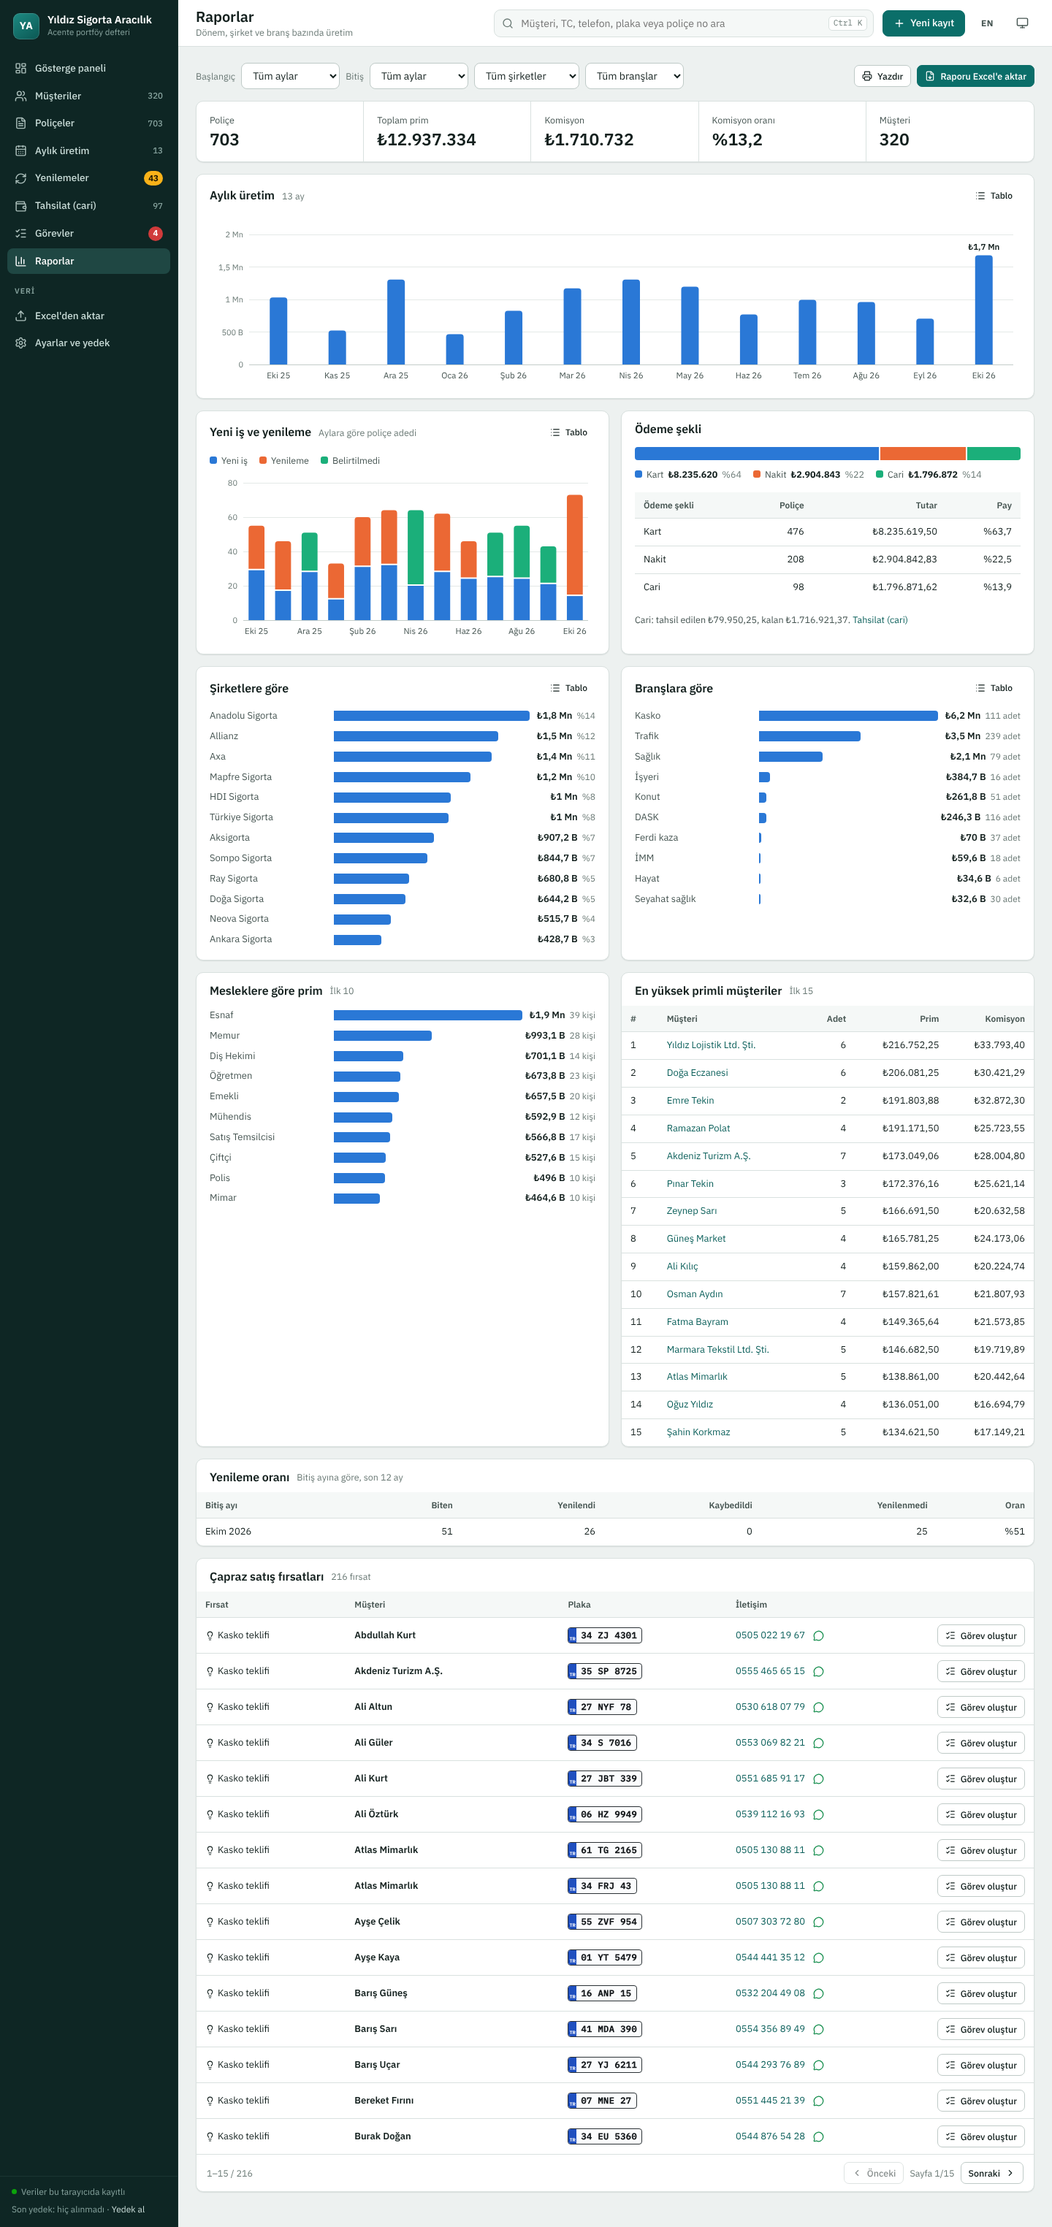
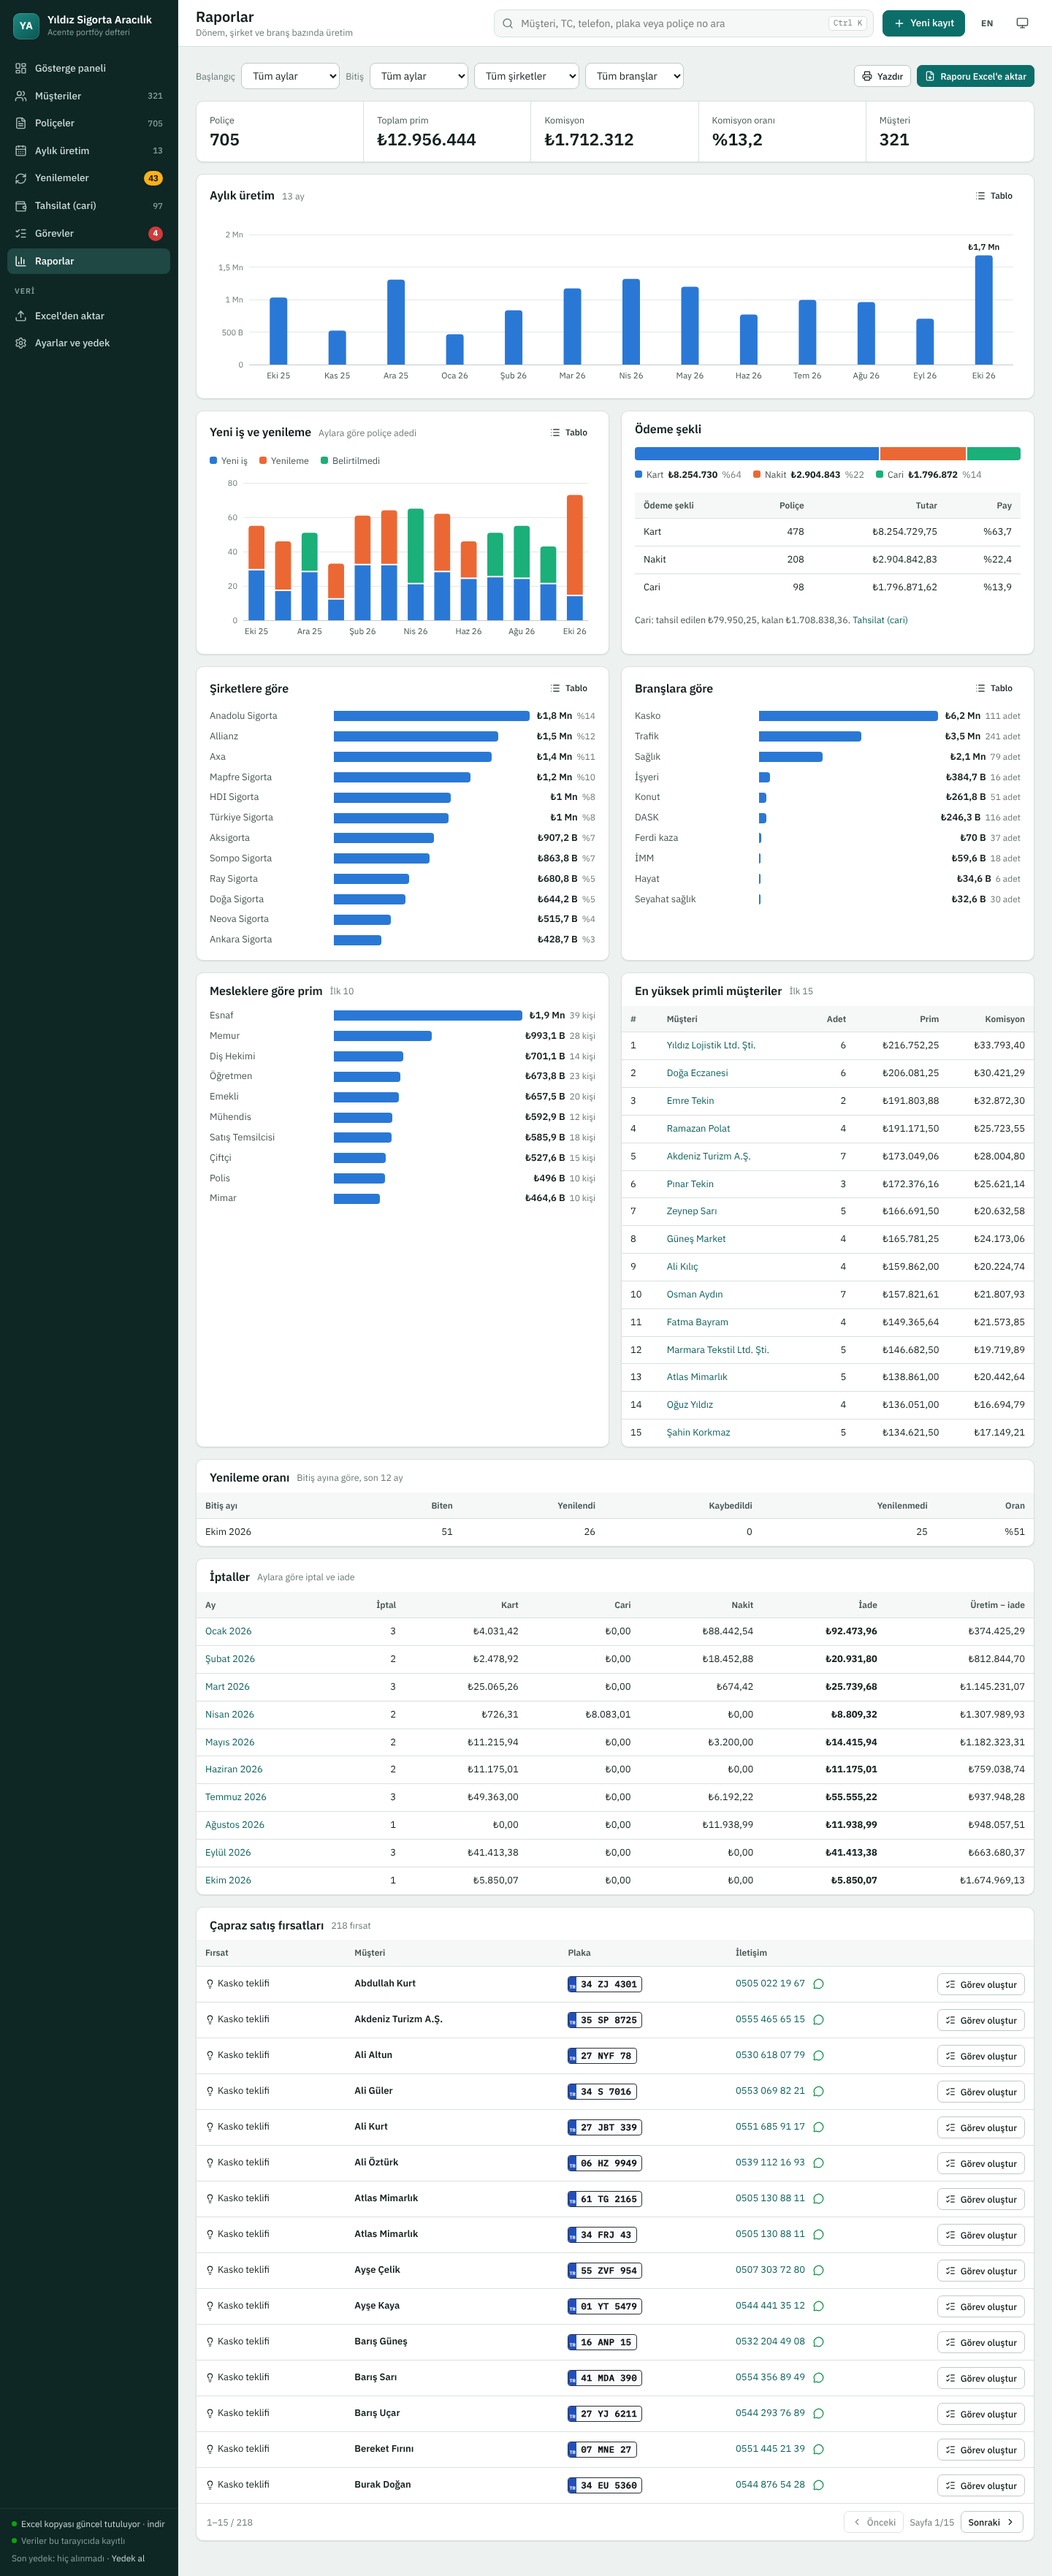
Document automatic saving and İptal; new screenshots
README: how every change goes into the linked workbook (what is kept, where new
rows, new months and cancellations go, the notices), the İptal block, and the
browser note (Chrome or Edge write to the file; others keep a copy to download).
Screenshots 31–40 show the import option, the saved state, the workbook itself
after a save, the file-open-in-Excel notice, the Excel card and the İptal screens;
the others are retaken with the Excel line in the menu.

Claude-Session: https://claude.ai/code/session_0144kBApRq18PCrk8ZVR21p3

diff --git a/README.md b/README.md
@@ -2,15 +2,22 @@
 
 An HTML application for insurance agencies. It reads the agency's monthly production Excel file
 (one sheet per month), keeps every row in the browser, matches the same customer across months,
-and gives one screen per customer with everything they have bought in every month. On top of that:
-an easy entry form, renewal tracking with WhatsApp reminders, on-account (cari) collections,
+and gives one screen per customer with everything they have bought in every month. **Every change
+made in the app is written back into that same Excel file, on the page of its month, a moment after
+it is saved — there is no save button.** The İptal block at the end of each page (ŞİRKET | POLİÇE |
+SİGORTALI AD SOYAD | KART | CARİ | NAKİT) is read as cancellations of earlier policies. On top of
+that: an easy entry form, renewal tracking with WhatsApp reminders, on-account (cari) collections,
 tasks, reports and Excel exports in the agency's own column layout.
 
 *Türkçe özet:* Acentenin her ayı ayrı sayfada tutulan üretim Excel'ini okur, tüm satırları
 tarayıcıda saklar, aynı müşteriyi aylar arasında TC / ad + telefon / plaka ile eşleştirir ve
-müşterinin bütün aylardaki poliçelerini tek kartta gösterir. Yeni kayıt formu, yenileme takibi,
-WhatsApp hatırlatma, cari tahsilat, görevler, raporlar ve aynı sütun düzeninde Excel çıktısı vardır.
-Veriler hiçbir sunucuya gönderilmez.
+müşterinin bütün aylardaki poliçelerini tek kartta gösterir. **Uygulamada yapılan her değişiklik
+(yeni kayıt, düzenleme, iptal) birkaç saniye içinde aynı Excel dosyasının ilgili ay sayfasına
+kendiliğinden yazılır; kaydet düğmesine basmak gerekmez.** Her sayfanın sonundaki ŞİRKET / POLİÇE /
+SİGORTALI AD SOYAD / KART / CARİ / NAKİT bölümüne yazılan satırlar iptal olarak okunur ve önceki
+aylardaki eşleşen poliçe iptal edilir. Yeni kayıt formu, yenileme takibi, WhatsApp hatırlatma, cari
+tahsilat, görevler, raporlar ve aynı sütun düzeninde Excel çıktısı vardır. Veriler hiçbir sunucuya
+gönderilmez.
 
 ![Dashboard](docs/screenshots/05-dashboard.png)
 
@@ -22,8 +29,12 @@ Veriler hiçbir sunucuya gönderilmez.
 | From the repository | Open `index.html` directly, or run `npm run serve` and go to http://127.0.0.1:8080 |
 
 On the first screen choose your Excel file, or press **Örnek veriyle dene** to load the sample
-workbook (`sample-data/ornek-portfoy.xlsx`: 13 monthly sheets, 703 policies, 320 fictional customers).
-The interface is Turkish; an English version is one click away (EN button in the top bar).
+workbook (`sample-data/ornek-portfoy.xlsx`: 13 monthly sheets, 705 policies, 321 fictional customers,
+22 İptal rows). The interface is Turkish; an English version is one click away (EN button in the top bar).
+
+Saving straight into your Excel file needs **Chrome or Edge** on a computer (they let a web page write
+to a file you picked). In Firefox and Safari the app keeps an up-to-date copy of your workbook instead,
+which you download with one click.
 
 ## What it does
 
@@ -44,6 +55,8 @@ What the importer copes with, because real agency files look like this:
   different sheets (*Branş*, *Vade Sonu*, *TCKN*, *Sigorta Şirketi* …);
 - total rows, empty rows and repeated header rows are skipped;
 - unknown columns (MARKA, MODEL YILI …) are kept as extra columns and written back on export;
+- the İptal block at the end of each page (ŞİRKET | POLİÇE | SİGORTALI AD SOYAD | KART | CARİ | NAKİT,
+  starting in any column, after one or more empty columns) is read on its own, never as policies;
 - the month from the sheet name in any form (`EKİM 2025`, `Ekim 2026`, `08.2026`, `Temmuz-2026`,
   `MART`), from the title, from the file name or from the dates;
 - dates as real Excel dates or text (`05.11.2026`, `5/11/2026`), amounts as `25.000,00` or `25000`;
@@ -73,7 +86,59 @@ Columns it recognises (any spelling or upper/lower case, with or without Turkish
 | Kart / Cari / Nakit | Kart, Kredi kartı, POS / Cari, Cari hesap, Veresiye / Nakit, Peşin, Elden |
 | Also | Başlangıç tarihi, Tanzim tarihi, E-posta, Doğum tarihi, Adres, Net prim, Temsilci |
 
-### 2. One card per customer, across all months
+### 2. Every change goes into your Excel file, automatically
+
+| | |
+| --- | --- |
+| ![Save to this file](docs/screenshots/31-import-autosave.png) | ![Linked](docs/screenshots/32-import-linked.png) |
+| When you import an `.xlsx`, **Bu Excel dosyasına otomatik kaydet** is ticked. The browser asks once whether the app may edit the file. | From then on the app writes into that file by itself. |
+| ![Saved](docs/screenshots/33-excel-saved.png) | ![In the file](docs/screenshots/35-excel-file-new-row.png) |
+| *Yeni kayıt* → *Kaydet*: a moment later the menu says **Excel'e kaydedildi**. | The same record in the workbook (open it again in Excel): on the Ekim 2026 page, right under the last row, with the page's own spelling (EVET, TC as a number, dates as dates). A cancellation made in the app went into the next empty row of that page's İptal block. |
+
+How it writes, so the file stays yours:
+
+- only the cells that changed are written; untouched rows, blank rows, colours, borders, column widths,
+  frozen panes, other sheets and formulas stay exactly as they were;
+- a new record goes under the last row of **its month's page** (into ready-formatted empty rows first);
+  a month the file does not have yet gets a new page copied from its neighbour ("KASIM 2026", same
+  headers, same İptal block), placed in month order;
+- an edit rewrites that row's changed cells; a customer's new phone number goes into all of their rows;
+- a deleted record's row is removed and the rows below move up; the **TOPLAM** row follows the table
+  and its totals are recalculated (SUM formulas are widened, typed totals are re-added);
+- a cancellation goes into the İptal block of the month it was cancelled in; a page without a block
+  gets one after its table;
+- before writing, the app keeps earlier versions of the file (Ayarlar → Excel dosyası → Önceki sürümler).
+
+| | |
+| --- | --- |
+| ![File open in Excel](docs/screenshots/36-excel-notice-open.png) | ![Excel card](docs/screenshots/37-settings-excel.png) |
+| If the file is open in Excel (Windows locks it), saving waits and tries again by itself; close Excel and it goes through. | Ayarlar → Excel dosyası: save now, download, earlier versions, link another file, create a new `.xlsx`, unlink. |
+
+When the browser needs you, a notice appears above the page:
+
+- **Kaydetmeye devam etmek için Excel dosyasını seçin / İzin ver**: after the app is reopened, the browser
+  asks once per session before the app may write to the file again (pick the file, or allow);
+- **Excel dosyası uygulama dışında değiştirilmiş**: the file was saved in Excel since the app last wrote
+  to it. *Dosyadaki değişiklikleri al* reads it again and lines its rows up with the last save, so
+  edited, added or deleted rows in Excel are understood; records you changed in the app meanwhile keep
+  your change and are written back. *Uygulamadakini dosyaya yaz* writes the app's data over it instead;
+- **N satır silinecek**: a change that would remove more than 10 rows at once (other than deleting a
+  month or a customer, which already asks) waits for a yes;
+- policies deleted in Excel are offered for deletion in the app too (or written back).
+
+An `.xls` or `.csv` cannot be written to; the app then offers to create a new `.xlsx` with all your
+months, one page each, with the agency's yellow headers and İptal block.
+
+### 3. İptal: cancellations at the end of each page
+
+| | |
+| --- | --- |
+| ![Month İptal block](docs/screenshots/38-month-cancels.png) | ![Cancelled policy](docs/screenshots/40-customer-cancelled.png) |
+| Each page's İptal block (wherever it starts: column T, U, Z …) is read row by row. Each row is matched to the policy it cancels in that month or an earlier one, by the insured person's name, the company, the line of business or a policy number in POLİÇE, and the refund amount. | The matched policy is marked **İptal · Eki 26** on the customer card and leaves renewals; a refund written to CARİ lowers the customer's balance. |
+| ![Two possible policies](docs/screenshots/39-cancel-picker.png) | ![Cancel from the app](docs/screenshots/34-cancel-dialog.png) |
+| When two policies fit equally well (two traffic policies of the same person), the row waits for you to pick; a row with no policy is marked as such. Your choice is kept on every later import. | Cancelling from the app (the ⊘ button on a policy) asks for the month and the refund (Kart / Cari / Nakit, or "whole premium") and writes the row into that month's İptal block. |
+
+### 4. One card per customer, across all months
 
 | | |
 | --- | --- |
@@ -95,14 +160,14 @@ history, payments. The card prints as a statement and exports to Excel.
 
 Search from anywhere (Ctrl + K): name, TC, phone, plate or policy number.
 
-### 3. Easy entry
+### 5. Easy entry
 
 | | |
 | --- | --- |
 | ![Entry form](docs/screenshots/12-new-policy-form.png) | ![Pick a customer](docs/screenshots/11-new-policy-pick-customer.png) |
 | All columns of the monthly sheet in one form: TC check digits, phone and plate formatted as you type, end date = start + 1 year, commission from the rate, payment split check (Kart + Nakit + Cari = prim), extra columns. Ctrl + S saves; "Kaydet ve yeni" keeps the customer for the next policy. | Typing a name (or a TC number already on file) offers the existing customer, so the new policy lands on the same card. |
 
-### 4. Months, policies, renewals, collections, tasks
+### 6. Months, policies, renewals, collections, tasks
 
 | | |
 | --- | --- |
@@ -115,18 +180,18 @@ Search from anywhere (Ctrl + K): name, TC, phone, plate or policy number.
 | ![Tasks](docs/screenshots/19-tasks.png) | ![Reports](docs/screenshots/20-reports.png) |
 | Tasks with due dates, linked to customers; overdue ones show in the menu. | Reports for any period: monthly production, new vs renewal, payment split, companies, branches, professions, top customers, renewal rate, cross-sell list; print or export to Excel. |
 
-### 5. Settings, backup and your data
+### 7. Settings, backup and your data
 
 | | |
 | --- | --- |
 | ![Settings](docs/screenshots/21-settings.png) | ![Duplicates](docs/screenshots/22-duplicates.png) |
 | Agency details, language, theme, rows per page, hiding TC numbers on screen (KVKK), renewal window, WhatsApp template. Backup to one `.json` file and restore; whole portfolio to Excel (one sheet per month in your own column order + summary + customers). | Finds customers that may be the same person and merges them. |
 
-Data stays on this computer: it is kept in the browser's database (IndexedDB) and is never sent
-anywhere. Take a backup regularly (the menu shows when the last one was taken); a backup restores
-everything on another computer or browser.
+Data stays on this computer: it is kept in the browser's database (IndexedDB) and in your own Excel
+file, and is never sent anywhere. Take a backup regularly (the menu shows when the last one was taken);
+a backup restores everything on another computer or browser.
 
-### 6. Print, English, dark mode, phone
+### 8. Print, English, dark mode, phone
 
 | | |
 | --- | --- |
@@ -147,11 +212,12 @@ Works on phones and tablets too: the menu becomes a drawer and tables become car
 ## Development
 
 No build step and no dependencies at run time: plain HTML, CSS and JavaScript
-(`index.html`, `css/`, `js/`), with SheetJS for Excel in `vendor/`.
+(`index.html`, `css/`, `js/`), with SheetJS (reading, exports) and ExcelJS (writing into the
+agency's own workbook) in `vendor/`.
 
 ```
-npm test             # unit tests (Node): parsing, TC/VKN check digits, dates, amounts, import, matching, export
-npm run test:e2e     # browser tests (Playwright): every screen and button, phone/tablet layouts, file:// mode
+npm test             # unit tests (Node): parsing, TC/VKN check digits, dates, amounts, import, matching, İptal, export, writing back to the workbook
+npm run test:e2e     # browser tests (Playwright): every screen and button, automatic saving into the file, phone/tablet layouts, file:// mode
 npm run build        # dist/sigorta-portfoy.html, the single-file version
 npm run screenshots  # docs/screenshots/
 npm run sample       # regenerate the sample workbook (Python + openpyxl)
@@ -160,7 +226,8 @@ npm run sample       # regenerate the sample workbook (Python + openpyxl)
 ```
 index.html           app shell
 css/app.css          styles (light and dark)
-js/core/             util, schema (columns and synonyms), importer, portfolio (matching, renewals), exporter, db, store
+js/core/             util, schema (columns and synonyms), importer, portfolio (matching, renewals, İptal),
+                     exporter, db, store, excelsync (writes into the workbook), filelink (the linked file)
 js/ui/               DOM helpers, charts
 js/views/            one file per screen
 js/app.js            routing, top bar, menu, search
@@ -170,4 +237,10 @@ tools/               sample generator, single-file build, screenshots, static se
 ```
 
 Third-party parts: [SheetJS Community Edition](https://sheetjs.com) 0.20.3 (Apache 2.0),
-IBM Plex Sans and Mono (SIL OFL 1.1), Lucide icons (ISC). Their licence files are next to them.
+[ExcelJS](https://github.com/exceljs/exceljs) 4.4.0 (MIT), IBM Plex Sans and Mono (SIL OFL 1.1),
+Lucide icons (ISC). Their licence files are next to them.
+
+Testing note: Chrome for Testing 153 (the browser Playwright uses here) crashes when a file handle is
+read back from IndexedDB. The app guards against it: if the browser ever goes down while reading the
+stored handle, that Chrome version keeps none and the file is simply picked again once per session.
+The browser tests run the app in that mode.
